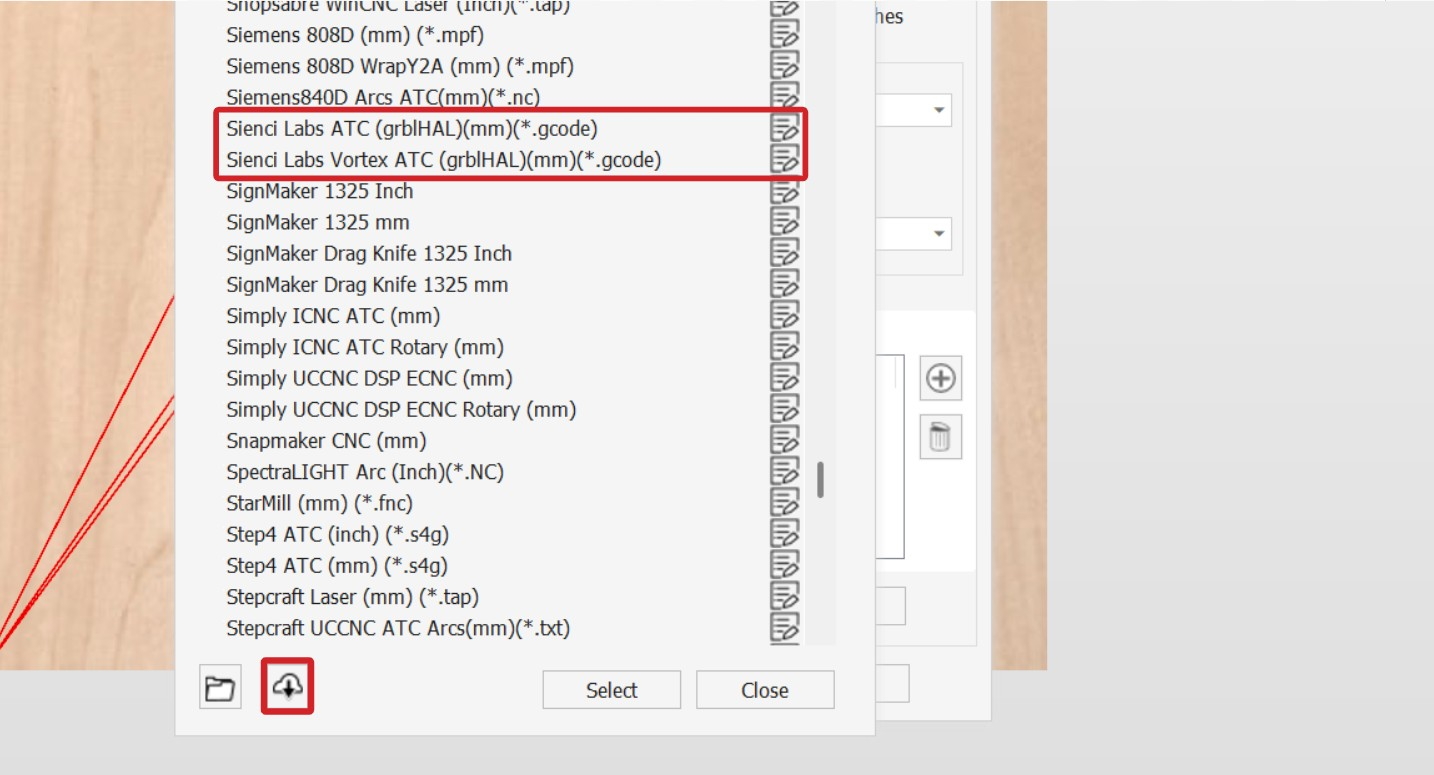
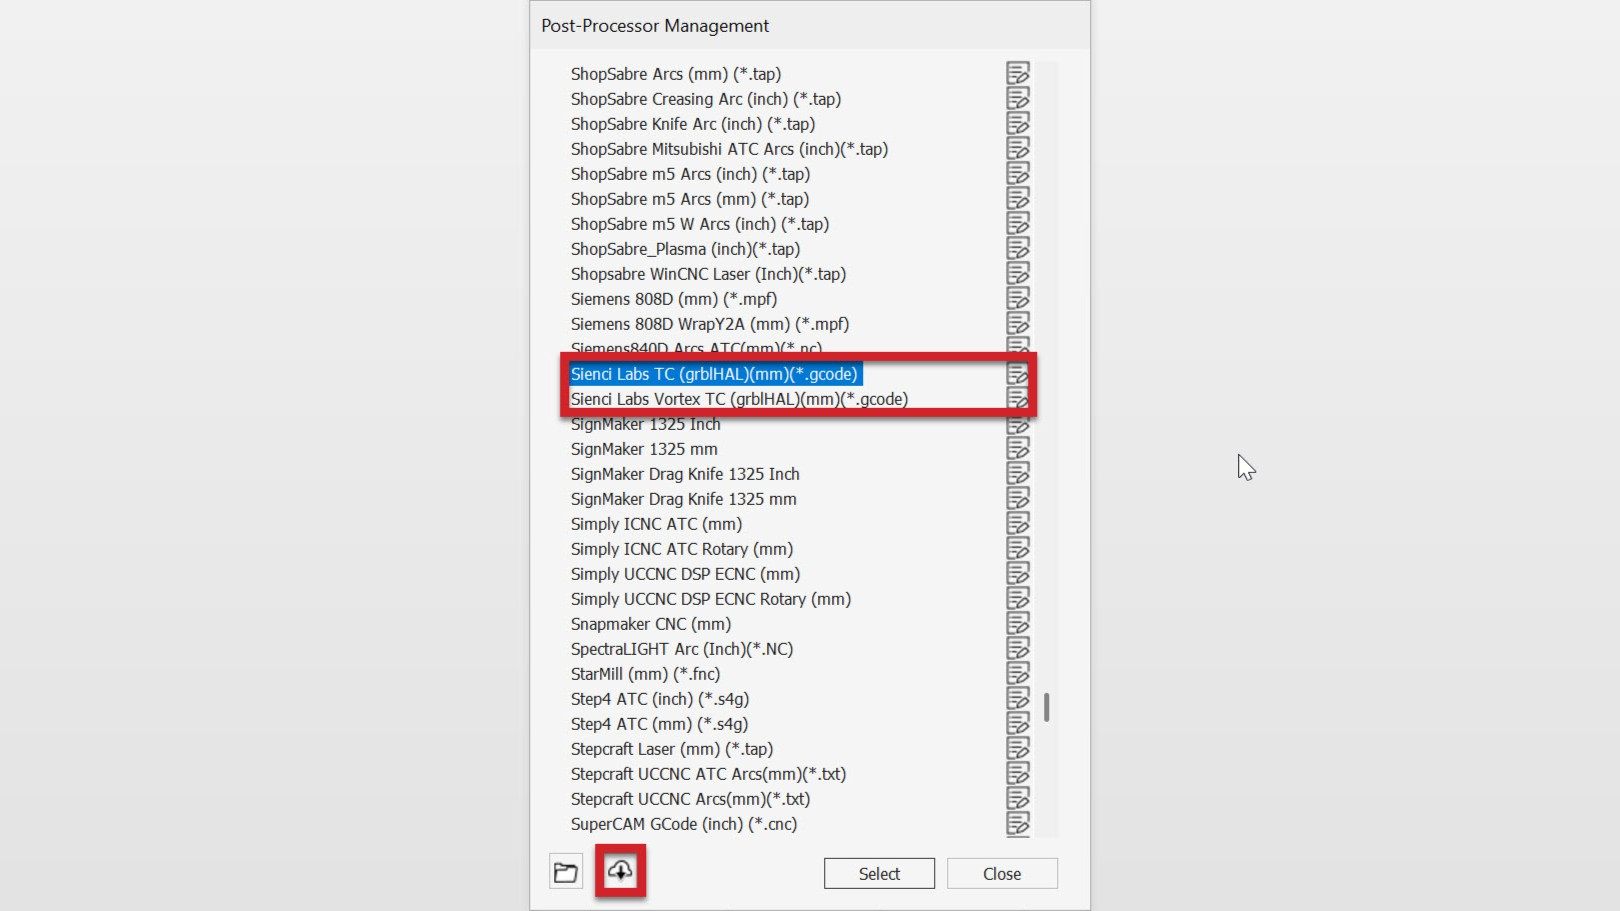
typo in mk3 surfacing first proj, tool change pp rename

Changed region(s): [[0.0, 0.0, 0.7364, 1.0], [0.6137, 0.0, 0.6444, 0.031]]

diff --git a/lmmk3/mk3-assembly/mk3-surfacing-first-proj.md b/lmmk3/mk3-assembly/mk3-surfacing-first-proj.md
@@ -56,7 +56,7 @@ You will need to use a surfacing bit - these are designed for light passes and a
 
     ![](/_images/_lmmk3/_assembly/lmk3_final_checks-homingmk3.gif){.aligncenter .size-medium}
 
-1. Open the Config tool, and under Homing/Limits, disable the hard and soft limits. You will get an Alarm 2 if soft limits are enabled and you won't be able to surface you spoil board.
+1. Open the Config tool, and under Homing/Limits, disable the hard and soft limits. You will get an Alarm 2 if soft limits are enabled and you won't be able to surface your spoil board.
 
     ![](/_images/_lmmk3/_assembly/lmk3_surfacing_first_proj-limdisable.jpg){.aligncenter .size-medium}
 
